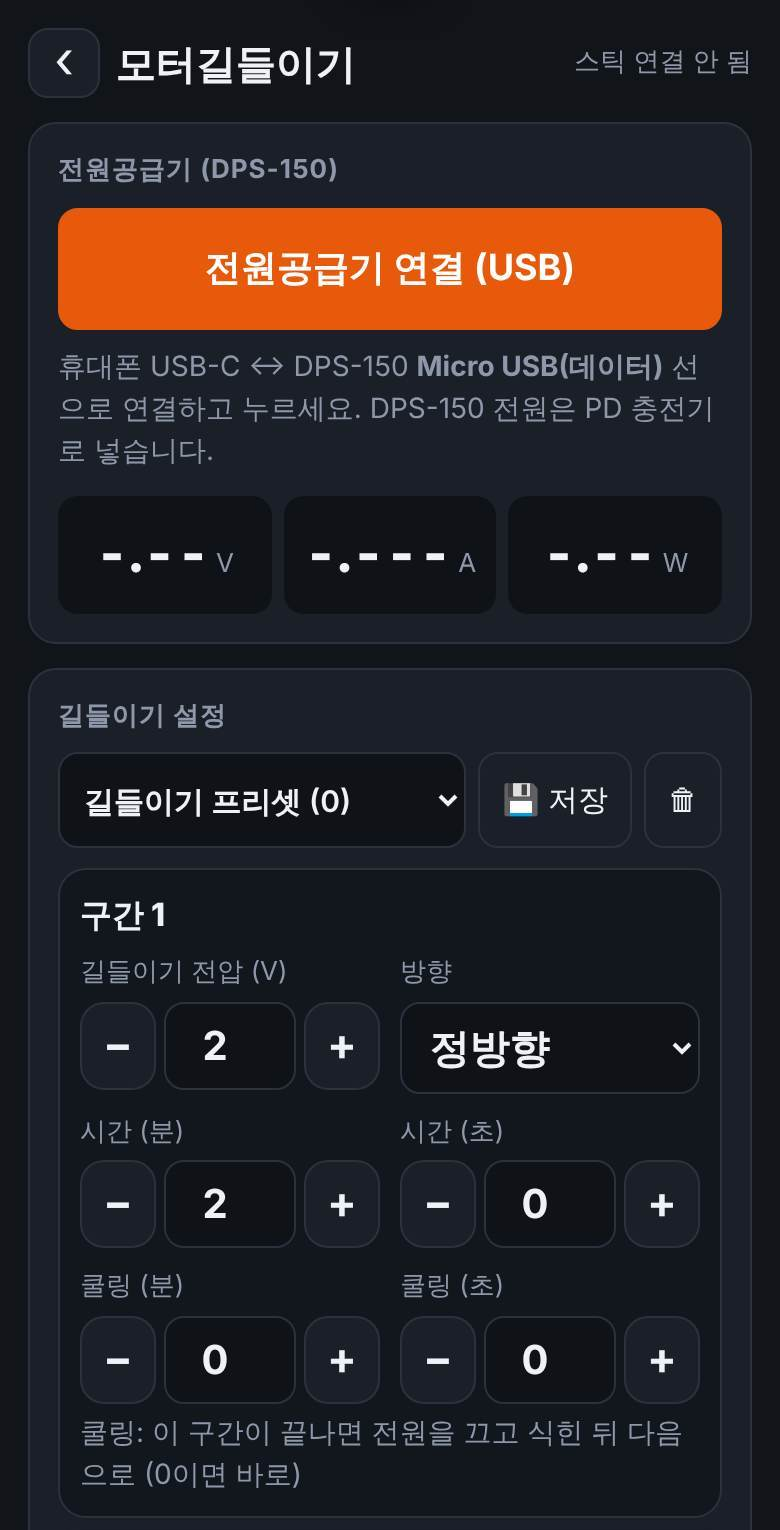
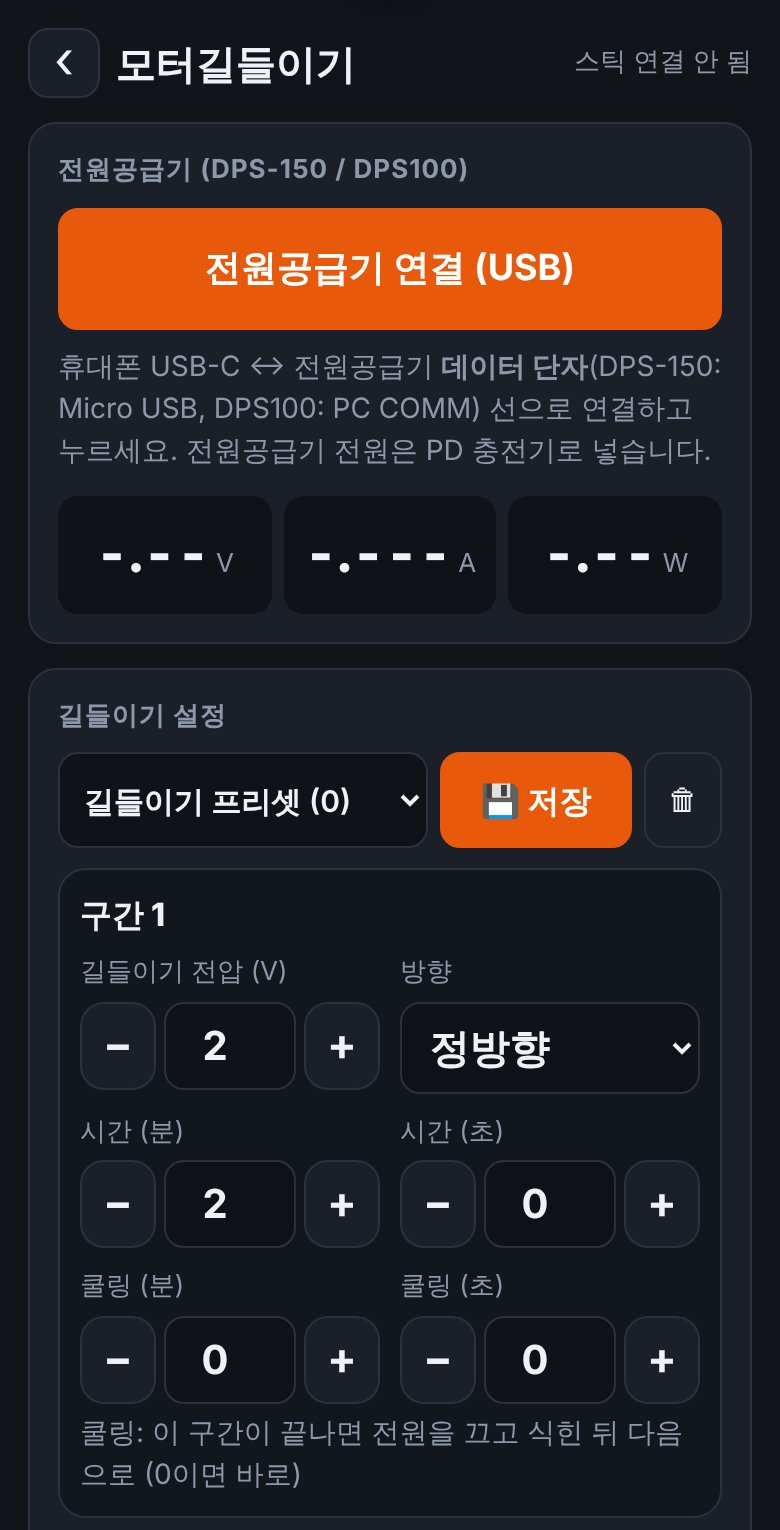
앱 화면·메뉴 정리: 클리닝·길들이기 카드 깨짐 수정, 홈 단순화, 연결 버튼 위로, 앱 설정 묶기 (앱 2026-11-26p)
Claude-Session: https://claude.ai/code/session_01WDN4fq3kSMUNUcbK6eJJbH

diff --git a/app.html b/app.html
@@ -130,8 +130,8 @@
   .prow select { flex:1; min-width:0; font:600 15px system-ui; padding:9px 8px; border-radius:10px; border:1px solid var(--line); background:#0f1217; color:var(--ink); }
   .prow button { padding:8px 11px; font-size:15px; white-space:nowrap; min-height:48px; }
   .prow select { min-height:48px; }
-  #psuPreSave, #cPreSave { min-width:108px; padding:10px 16px; font-size:18px; font-weight:800; background:var(--acc); border-color:var(--acc); color:#fff; }
-  #psuPreSave:active, #cPreSave:active { filter:brightness(1.15); }
+  #psuPreSave, #cPreSave, #bPreSave { min-width:96px; padding:10px 14px; font-size:16px; font-weight:800; background:var(--acc); border-color:var(--acc); color:#fff; }
+  #psuPreSave:active, #cPreSave:active, #bPreSave:active { filter:brightness(1.15); }
   .ppl { margin-top:8px; }
   .ppl .row { display:grid; grid-template-columns:1fr auto; gap:6px; align-items:center; padding:9px 2px; border-bottom:1px solid var(--line); }
   .ppl .nm { font-weight:700; font-size:16px; overflow:hidden; text-overflow:ellipsis; white-space:nowrap; }
@@ -140,7 +140,13 @@
   .ppl .acts button { padding:7px 9px; font-size:13px; }
   .pst { font-size:12px; font-weight:800; border-radius:6px; padding:1px 6px; margin-left:6px; }
   .pst.ok { background:#2b8a3e; color:#fff; } .pst.no { background:#c92a2a; color:#fff; } .pst.re { background:#1971c2; color:#fff; }
-  .tile.wide { grid-column:1 / -1; flex-direction:row; justify-content:center; padding:16px 10px; gap:12px; }
+  .tile.wide { grid-column:1 / -1; flex-direction:row; justify-content:flex-start; padding:16px 20px; gap:16px; }
+  .tiles3 { display:grid; grid-template-columns:repeat(3,1fr); gap:10px; margin-top:14px; }
+  .tiles3 .tile { padding:14px 4px 12px; gap:6px; border-radius:16px; }
+  .tiles3 .tile svg { width:36px; height:36px; }
+  .tiles3 .tile .tl { font-size:14px; text-align:center; line-height:1.25; }
+  .tiles3 .tile .ts { display:none; }
+  html.android .notAndroid { display:none !important; }
   .tile.wide svg { width:40px; height:40px; }
   #book { position:fixed; inset:0; z-index:58; background:var(--bg); overflow-y:auto; display:none; }
   #book.open { display:block; }
@@ -330,37 +336,39 @@
       </svg>
       <div style="text-align:left"><div class="tl">기록 · 비교</div><div class="ts" id="tileBookSub">모터별 점수 변화 · 순위 · 공유</div></div>
     </div>
-    <div class="tile wide" id="tileManual" role="button">
+  </div>
+  <div class="tiles3">
+    <div class="tile" id="tileManual" role="button">
       <svg viewBox="0 0 64 64" fill="none" stroke-linecap="round" stroke-linejoin="round">
         <path d="M8 14c8-3 16-3 24 3v36c-8-6-16-6-24-3z" stroke="#ffffff" stroke-width="4"/>
         <path d="M56 14c-8-3-16-3-24 3v36c8-6 16-6 24-3z" stroke="#e8590c" stroke-width="4"/>
       </svg>
-      <div style="text-align:left"><div class="tl">설명서</div><div class="ts">그림으로 보는 사용 방법</div></div>
+      <div class="tl">설명서</div>
     </div>
-    <div class="tile wide" id="tileFw" role="button">
+    <div class="tile" id="tileFw" role="button">
       <svg viewBox="0 0 64 64" fill="none" stroke-linecap="round" stroke-linejoin="round">
         <rect x="18" y="6" width="28" height="52" rx="6" stroke="#ffffff" stroke-width="4"/>
         <path d="M32 18v20M24 30l8 8 8-8" stroke="#1c7ed6" stroke-width="5"/>
         <path d="M26 48h12" stroke="#ffffff" stroke-width="4"/>
       </svg>
-      <div style="text-align:left"><div class="tl">최초 설치 · 업데이트</div><div class="ts" id="tileFwSub">스틱 펌웨어 설치와 새 버전 받기</div></div>
+      <div class="tl">설치 ·<br>업데이트</div><div class="ts" id="tileFwSub"></div>
     </div>
-    <div class="tile wide" id="tileReport" role="button">
+    <div class="tile" id="tileReport" role="button">
       <svg viewBox="0 0 64 64" fill="none" stroke-linecap="round" stroke-linejoin="round">
         <path d="M32 10C17 10 6 19 6 30c0 7 5 13 12 16l-3 10 11-7c2 0 4 1 6 1 15 0 26-9 26-20S47 10 32 10z" fill="#fee500" stroke="#fee500" stroke-width="3"/>
         <path d="M32 20v12M32 39v1" stroke="#3c1e1e" stroke-width="5"/>
       </svg>
-      <div style="text-align:left"><div class="tl">오류·문의 신고</div><div class="ts">카카오톡으로 제작자에게 바로 보내기</div></div>
+      <div class="tl">오류·문의<br>신고</div>
     </div>
   </div>
   <button id="btnInstall" style="display:none;width:100%;margin-top:18px;padding:14px;font-weight:700">📲 홈 화면에 앱 설치</button>
   <button id="btnShareInst" style="width:100%;margin-top:12px;padding:14px;font-weight:800;background:#fee500;color:#3c1e1e;border:0">📤 설치 페이지 공유하기</button>
   <p class="help" style="margin-top:22px">안드로이드 크롬에서 사용하세요. <span class="iosOnly">아이폰은 Bluefy 앱에서 스틱 측정만 됩니다.</span></p>
-  <div class="card" style="margin-top:10px;display:flex;align-items:center;gap:10px">
+  <div class="card notAndroid" style="margin-top:10px;display:flex;align-items:center;gap:10px">
     <div style="flex:1;font-size:14px;line-height:1.5">🍎 <b>아이폰</b>은 무료 앱 <b>Bluefy</b>를 받아 그 안에서 이 주소를 여세요. (스틱 측정만 가능)</div>
     <a href="https://apps.apple.com/kr/app/bluefy/id1492822055" target="_blank" rel="noopener" style="background:#e8590c;color:#fff;font-weight:800;padding:10px 12px;border-radius:10px;text-decoration:none;white-space:nowrap">아이폰용 받기</a>
   </div>
-  <a href="download.html" style="display:block;text-align:center;margin-top:10px;color:#74c0fc;font-weight:700;text-decoration:none">📥 다운로드 · 사용 설명서 (안드로이드 / 아이폰)</a>
+  <a href="download.html" style="display:block;text-align:center;margin-top:10px;color:#74c0fc;font-weight:700;text-decoration:none">📥 다른 휴대폰용 다운로드 안내</a>
 </div></div>
 <div id="admin"><div class="inner">
   <header>
@@ -441,7 +449,6 @@
         <label><span id="bRepLbl">최대 사이클</span><span class="nstep"><button class="stp" data-for="bRep" data-d="-1" aria-label="줄이기">−</button><input id="bRep" type="number" inputmode="numeric" min="1" max="999" step="1"><button class="stp" data-for="bRep" data-d="1" aria-label="늘리기">+</button></span></label>
         <label>전류 제한 (A)<span class="nstep"><button class="stp" data-for="bAmp" data-d="-1" aria-label="줄이기">−</button><input id="bAmp" type="number" inputmode="decimal" min="0.1" max="5" step="0.1"><button class="stp" data-for="bAmp" data-d="1" aria-label="늘리기">+</button></span></label>
       </div>
-    </div>
     </div>
     <div class="cgrid only-clean">
       <label>최소 전압 (V)<span class="nstep"><button class="stp" data-for="cMin" data-d="-1" aria-label="줄이기">−</button><input id="cMin" type="number" inputmode="decimal" min="0" max="12" step="0.1"><button class="stp" data-for="cMin" data-d="1" aria-label="늘리기">+</button></span></label>
@@ -591,14 +598,17 @@
 
   <div class="card">
     <div class="ttl">앱 설정</div>
+    <div class="set-row"><div class="ttl" style="margin:4px 0 0">알림</div></div>
     <div class="set-row"><label class="sw"><span><span class="set-name">연결 알림 진동</span><div class="set-def">기본값: 켜짐</div></span><input type="checkbox" id="aVib"></label></div>
     <div class="set-row"><label class="sw"><span><span class="set-name">연결 알림 소리</span><div class="set-def">기본값: 켜짐</div></span><input type="checkbox" id="aSnd"></label></div>
     <div class="set-row"><label class="sw"><span><span class="set-name">측정 결과 음성 안내</span><div class="set-def">기본값: 켜짐</div><div class="set-help">컨디션 측정이 끝나면 "92점, 좋음"처럼 소리 내어 읽어 줍니다.</div></span><input type="checkbox" id="aSay"></label></div>
     <div class="set-row"><label class="sw"><span><span class="set-name">측정 결과 진동</span><div class="set-def">기본값: 켜짐</div><div class="set-help">좋음 1번, 보통 2번, 점검 필요·다시 재기 3번 울립니다.</div></span><input type="checkbox" id="aRVib"></label></div>
     <div class="set-row"><label class="sw"><span><span class="set-name">이상 경고</span><div class="set-def">기본값: 켜짐</div><div class="set-help">돌리는 중 전류가 갑자기 뛰거나 파노가 크게 흔들리면 "베어링·브러시 점검"을 화면·소리로 알려 줍니다.</div></span><input type="checkbox" id="aWarn"></label></div>
+    <div class="set-row"><div class="ttl" style="margin:4px 0 0">연결 · 화면</div></div>
     <div class="set-row"><label class="sw"><span><span class="set-name">앱 열면 스틱 자동 연결</span><div class="set-def">기본값: 켜짐</div><div class="set-help">한 번 연결한 스틱이 켜져 있으면 앱을 열 때 바로 붙습니다 (브라우저가 지원할 때). 전원공급기는 늘 자동으로 다시 붙습니다.</div></span><input type="checkbox" id="aAuto"></label></div>
-    <div class="set-row"><label class="sw"><span><span class="set-name">앱에서 빨간 숫자 효과</span><div class="set-def">기본값: 켜짐</div></span><input type="checkbox" id="aHot"></label></div>
     <div class="set-row"><label class="sw"><span><span class="set-name">화면 꺼짐 방지</span><div class="set-def">기본값: 꺼짐</div><div class="set-help">측정하는 동안 휴대폰 화면이 꺼지지 않게 합니다.</div></span><input type="checkbox" id="aWake"></label></div>
+    <div class="set-row"><label class="sw"><span><span class="set-name">앱에서 빨간 숫자 효과</span><div class="set-def">기본값: 켜짐</div></span><input type="checkbox" id="aHot"></label></div>
+    <div class="set-row"><div class="ttl" style="margin:4px 0 0">장치</div></div>
     <div class="set-row"><label class="sw"><span><span class="set-name">릴레이 연결됨 (역방향)</span><div class="set-def">기본값: 꺼짐</div><div class="set-help">스틱 Grove 포트에 릴레이 보드를 달았을 때만 켜세요. 꺼져 있으면 역방향을 쓰지 않습니다.</div></span><input type="checkbox" id="aRelay"></label></div>
   </div>
 
@@ -619,6 +629,10 @@
     <div class="hdr-r"><span id="conn" class="conn" role="button">연결 안 됨</span></div>
   </header>
 
+  <div id="connectBox" class="card">
+    <button id="btnConnect" class="primary">스틱 연결 (블루투스)</button>
+    <p id="hint" class="help" style="margin:10px 0 0">스틱을 켜고, 휴대폰 블루투스와 위치를 켠 뒤 눌러주세요. 목록에서 <b>파노체크-(스틱 ID)</b>를 고르면 됩니다. 연결이 안 되면 스틱 전원을 껐다 켜고 다시 해 보세요.</p>
+  </div>
 
   <div id="lockBox" class="card" style="display:none;border-color:#e8590c">
     <b style="font-size:18px">🔒 활성화가 필요한 스틱입니다</b>
@@ -714,12 +728,6 @@
     <div id="recs" style="margin-top:2px"></div>
   </div>
 
-  <div id="connectBox" class="card">
-    <button id="btnConnect" class="primary">스틱 연결 (블루투스)</button>
-    <p id="hint" class="help" style="margin:10px 0 0">스틱을 켜고, 휴대폰 블루투스와 위치를 켠 뒤 눌러주세요. 목록에서 <b>파노체크-(스틱 ID)</b>를 고르면 됩니다.</p>
-  </div>
-
-  <p class="help">안드로이드 크롬에서 사용하세요<span class="iosOnly"> (아이폰은 Bluefy 앱)</span>. 연결이 안 되면 스틱 전원을 껐다 켜고 다시 연결해 보세요.</p>
 </main>
 
 <script>
@@ -830,6 +838,7 @@ async function saveFile(blob, name) {
   document.body.appendChild(a); a.click(); a.remove(); setTimeout(() => URL.revokeObjectURL(a.href), 2000);
 }
 if (IOS_UA) document.documentElement.classList.add('ios');
+if (/Android/i.test(navigator.userAgent)) document.documentElement.classList.add('android');
 if (IOS_UA) {                                       // iPhone zooms in on a text box under 16 px and stays zoomed
   const vp = document.querySelector('meta[name=viewport]'); if (vp) vp.content += ', maximum-scale=1';
 }
@@ -1620,7 +1629,7 @@ checkReqHash();
 // opening) it reads app.html's APP_BUILD from the server. A newer one is loaded right away when nothing is running:
 // within 15 s of opening / returning the stick and power supply links may be dropped (they reconnect by themselves);
 // later, only when no link is open. Never while cleaning, break-in, a condition check, a firmware update or DPS output ON.
-const APP_BUILD = '2026-11-26o';
+const APP_BUILD = '2026-11-26p';
 var lcFront = Date.now(), appNewer = '', appReloading = false;
 function appCanReload() {
   if (lcBusy() || (dps.link && dps.st && dps.st.on)) return false;

diff --git a/manual.html b/manual.html
@@ -73,7 +73,7 @@
     <h3>📱 안드로이드폰으로 설치</h3>
     <ol class="steps">
       <li>스틱을 USB-C 선으로 폰에 꽂습니다. (C-C 선, 또는 OTG 젠더)</li>
-      <li>폰 <b>크롬</b>에서 <a href="./" data-install style="color:var(--blue)">jung86.github.io/panotrio</a> 를 엽니다. 앱에서는 홈 <b>[최초 설치 · 업데이트]</b> → <b>[설치 페이지 열기]</b>.</li>
+      <li>폰 <b>크롬</b>에서 <a href="./" data-install style="color:var(--blue)">jung86.github.io/panotrio</a> 를 엽니다. 앱에서는 홈 <b>[설치 · 업데이트]</b> → <b>[설치 페이지 열기]</b>.</li>
       <li><b>설치 모드로 바꾸기</b>: 스틱 <b>옆면 전원 버튼을 약 2초</b> 누르고, 스틱 안의 <b>초록 불이 깜빡이면</b> 손을 뗍니다. (화면은 꺼져도 됩니다)</li>
       <li><b>[폰으로 설치]</b> → 목록에서 스틱(USB JTAG/serial) 선택 → <b>허용</b>.</li>
       <li>막대가 끝까지 차고 "✅ 설치 끝"이 나오면 선을 빼고 <b>전원 버튼을 한 번</b> 눌러 켭니다.</li>
@@ -179,8 +179,8 @@
       <li><b>파노측정</b>: 파노·전원공급기·컨디션 점수·기록을 한 화면에서.</li>
       <li><b>모터클리닝 / 모터길들이기</b>: 전원공급기로 자동 운전.</li>
       <li><b>설정</b>: 스틱 밝기·감도·대기 시간·시계 등.</li>
-      <li><b>최초 설치 · 업데이트</b>: 스틱 펌웨어를 블루투스로 업데이트하거나, USB로 처음 설치(안드로이드폰·PC).</li>
-      <li><b>설명서</b>: 지금 이 페이지.</li>
+      <li><b>기록 · 비교</b>: 모터별 점수 변화·순위·결과 카드 공유.</li>
+      <li>아래 작은 칸 세 개: <b>설명서</b>(지금 이 페이지) · <b>설치 · 업데이트</b>(스틱 펌웨어를 블루투스로 업데이트하거나 USB로 처음 설치) · <b>오류·문의 신고</b>(카카오톡으로 제작자에게).</li>
     </ul>
     <p class="mute">새 펌웨어가 있으면 연결 버튼 아래에 파란 알림 상자가 나옵니다 (→ <a href="#s-up" style="color:var(--blue)">업데이트</a>).</p>
   </section>
@@ -391,11 +391,11 @@
     <h3>스틱 펌웨어 (블루투스)</h3>
     <ul>
       <li>새 버전이 있으면 스틱을 연결할 때 알림이 뜹니다 → <b>[지금 업데이트]</b>.</li>
-      <li>언제든 홈 <b>[최초 설치 · 업데이트]</b>에서 최신인지 확인하고 업데이트할 수 있습니다.</li>
+      <li>언제든 홈 <b>[설치 · 업데이트]</b>에서 최신인지 확인하고 업데이트할 수 있습니다.</li>
       <li>2~5분 걸립니다. 배터리 25% 이상(USB에 꽂혀 있으면 상관없음). 끊겨도 90초 안에 다시 연결하면 이어받고, 실패해도 스틱은 원래 버전으로 켜집니다.</li>
       <li>블루투스 업데이트가 안 되는 스틱(2.0 전 버전)은 <a href="#s-install" style="color:var(--blue)">1. 최초 설치</a>처럼 USB로 한 번 설치합니다.</li>
     </ul>
-    <img class="shot half" src="manual/fw-menu.jpg" alt="최초 설치 · 업데이트 창" loading="lazy">
+    <img class="shot half" src="manual/fw-menu.jpg" alt="설치 · 업데이트 창" loading="lazy">
     <h3>앱</h3>
     <p>앱을 열거나 다른 앱에서 돌아올 때 새 버전을 확인해서 <b>바로 바뀝니다</b> (닫았다 다시 열 필요 없음). 측정·클리닝·길들이기 중이거나 전원공급기 출력이 켜져 있으면 끝난 뒤 앱으로 돌아올 때 바뀝니다. 버전은 설정 맨 아래에 있습니다.</p>
     <h3>앱을 끄거나 다른 앱으로 갈 때</h3>

diff --git a/CLAUDE.md b/CLAUDE.md
@@ -24,7 +24,7 @@
 
 ## 3. 현재 버전 (2026-11-25 기준)
 
-- 앱: **2026-11-26o** (26o: 사용자 요청 "설정 최초 초기값은 무조건 기본설정": 처음 만나는 스틱(INFO ID, localStorage `panocheck-setinit` 목록, 최대 20개)이면 스틱 값을 불러오지 않고 mySet=DEFAULTS로 두고 saveToStick(true)로 스틱에도 저장(그 세션에 앱에서 바꾼 값은 유지). 이 변경 전부터 쓰던 폰(myset 있고 목록 없음)은 지금 스틱을 목록에 넣기만 해서 설정 안 바뀜. 두 번째 연결부터는 예전처럼 스틱 값을 불러옴. 펌웨어는 안 바꿈(펌웨어 기본값이 DEFAULTS와 같은지 PC 소스로 확인 못 함). 26n: 끄고 켤 때 정리: pagehide면 DPS 출력 OFF 프레임을 큐 없이 바로 보내고 세션 끝·포트 닫기, 스틱 gatt.disconnect, 화면 켜짐 잠금·음성·소리 정지. 다른 앱으로 잠깐 가면(visibilitychange) 아무것도 안 멈춤, 3분 넘게 숨겨져 있고 lcBusy()(클리닝·길들이기·컨디션·ckOne·펌웨어 업데이트) 아니고 출력 OFF면 lcPark()로 연결만 쉬고 돌아오면 기존 자동 재연결. 새 버전: sw.js는 안 바뀌어 controllerchange가 안 오므로, 열 때·돌아올 때·30분마다 app.html을 no-store로 받아 APP_BUILD 비교(크면 새 버전), 바쁘지 않고 출력 OFF면 열고/돌아온 뒤 15초 안엔 연결이 있어도 reload(자동 재연결), 그 뒤엔 연결 없을 때만, 아이폰은 스틱 연결 중엔 안 함, sessionStorage pc-reloadFor로 버전당 한 번. 26m: 홈에 📊 기록 · 비교 타일(#book): 모터 순위(최근 점수 순, 전압 칩 0.5 V 단위로 거름), 모터별 점수 그래프(청소 전 주황/후 초록/일반 회색)·청소 효과·이름 바꾸기(renameMotor: recs와 condchk 둘 다), 📤 결과 카드 공유(1080×1080 PNG, navigator.share 파일, 안 되면 저장; 컨디션 결과 아래에도). ⚠ 이상 경고(warnCheck, 설정 aWarn 기본 켬): 같은 전압·방향에서 최근 1.5초 전류 중앙값이 그 전 10초보다 25%↑·0.08 A↑ 또는 파노 cv>3% 3초 지속 → 컨디션 카드 빨간 줄+토스트+음성, 종류별 30초에 한 번. 길들이기 자동(구간·정역·프리셋)은 이미 있어 그대로. 26l: 홈 맨 아래와 설치 페이지 맨 아래에 📤 설치 페이지 공유하기(navigator.share, 안 되면 주소 복사). 26k: 홈에 🔌 최초 설치 · 업데이트 타일: 창에서 블루투스 업데이트(연결·최신 여부 표시)와 USB 최초 설치(안드로이드는 폰으로 설치, 아이폰 불가 안내) → index.html. 26j: 조작 편하게: 컨디션 카드에 큰 버튼 [🧽 청소 전] [✨ 청소 후] [▶ 그냥 측정], 누르면 빠진 연결(스틱→DPS, 목록은 한 번에 하나라 필요하면 두 번 누름) → 출력 켜기 → 3초 뒤 자동 측정 → 점수 → 출력 끄기(직접 켠 출력이면 안 끔), 측정 중엔 그 버튼이 ■ 멈추기, 20초 파노 없으면 출력 끔. 결과 음성(speechSynthesis ko-KR "92점, 좋음")·진동(좋음1/보통2/점검3번), 설정 aSay/aRVib. 앱 열면 스틱 자동 연결(getDevices+watchAdvertisements, localStorage `panocheck-stick`, 설정 aAuto). 스틱 버튼 이벤트 수신 준비: INFO `BTN=seq.kind`(1=A 1초 길게: 시작/멈춤, 2=B 1초 길게: 정역), 펌웨어 2.7에서 넣을 예정. 26i: 홈에 💬 오류·문의 신고 타일: 앱·펌웨어·스틱 ID·기기 정보를 복사한 뒤 제작자 카톡 프로필(qr.kakao.com/talk/KAoG3jvpyh58RB7NFy4KUi7kl2I-, 사용자 QR에서 읽음)을 엶. 26h: 사용자 요청으로 ▶ 측정 시작 버튼과 자동 측정 체크박스 삭제, 컨디션 측정은 항상 자동(출력 ON 3초 뒤 한 번, 전압·방향 바꾸면 다시), 다시 재려면 출력 껐다 켜기, 설명서도 수정. 26g: 전압 바꿔 자동 측정 취소될 때 "측정 중" 문구가 0.5초 남던 것 수정. 26f 실기 시험 통과(2026-11-26, PC 헤드리스 크롬+실제 DPS-150 COM5+스틱 COM8 파노): 출력 ON 3.8~5.1초 뒤 자동 시작, 2.0 V 96점·2.5 V 100점, 보고서 PC `Documents\motorcleaner\test-2026-11-26f\`. 26f: 컨디션 측정 자동 시작: 전원공급기 출력이 켜지고 3초 뒤 파노가 들어오면 한 번 자동 측정, 측정 중 전압·방향을 바꾸면 새로 시작, 체크박스 "모터가 돌기 시작하면 자동으로 측정"(localStorage `panocheck-ckauto`, 기본 켬)으로 끌 수 있음, ▶ 측정 시작 버튼은 남겨 둠(멈추기·수동 재측정용). 26e: DPS100 미리 지원(실물 미확인, DPS-150과 같은 통신 방식 가정): 첫 연결 목록에 Artery·ST·GD·WCH·CP210x 칩 표시, 고른 장치 VID/PID를 localStorage `dpsDev`에 저장해 자동 재연결, 모델 이름에 DPS100이면 전류 5.0 A·OCP 5.05 A 상한, 화면·설명서 "DPS-150 / DPS100". 26d: 릴레이 설명서. 26c: 아이폰 점검: 아이폰에선 확인·입력 창을 앱 자체 창으로(Bluefy가 confirm/prompt를 못 띄울 수 있음), CSV는 공유 시트→안 되면 복사 창, 입력칸 확대 막기, 노치·홈바 여백, 전원공급기 카드에 "아이폰은 DPS 연결 불가" 안내, BLE 업데이트에서 응답 놓치면 아이폰은 응답 있는 쓰기로 전환. WebKit 엔진 시험은 못 함(다운로드 차단), 크롬+아이폰 화면·가짜 블루투스로 시험. 26b: 홈 📖 설명서 타일 → manual.html: 실제 앱 캡처(manual/*.jpg)와 그림으로 된 설명서, ★작동 기준 포함, 앱 안 텍스트 설명서는 뺌. 캡처는 playwright로 가짜 값 넣어 다시 찍음. 26a: 전류 제한 기본값 1.0→3.0 A: 전원공급기·클리닝·길들이기. 25z: 설정 최소값 정리: 대기 시간 눈금 0초/1.0초를 펌웨어에 맞게 표시, 2.6 미만 스틱이면 저장값을 1.0초로 맞춤, 길들이기 전압 최소 0.3 V) (설정 맨 아래에 표시)
+- 앱: **2026-11-26p** (26p: 화면·메뉴 정리: 클리닝·길들이기 설정 카드의 남는 </div> 때문에 입력칸이 카드 밖으로 빠지던 것 수정, 홈 설명서·설치 · 업데이트·오류·문의 신고를 작은 칸 3개로 묶음(기록 · 비교 넓은 칸은 왼쪽 정렬), 아이폰 안내 카드는 안드로이드에선 숨김(html.android), 파노측정 스틱 연결 카드를 맨 위로, 앱 설정을 알림 / 연결 · 화면 / 장치로 묶음, 프리셋 💾 저장 버튼 셋 같은 모양. 동작 변경 없음. 26o: 사용자 요청 "설정 최초 초기값은 무조건 기본설정": 처음 만나는 스틱(INFO ID, localStorage `panocheck-setinit` 목록, 최대 20개)이면 스틱 값을 불러오지 않고 mySet=DEFAULTS로 두고 saveToStick(true)로 스틱에도 저장(그 세션에 앱에서 바꾼 값은 유지). 이 변경 전부터 쓰던 폰(myset 있고 목록 없음)은 지금 스틱을 목록에 넣기만 해서 설정 안 바뀜. 두 번째 연결부터는 예전처럼 스틱 값을 불러옴. 펌웨어는 안 바꿈(펌웨어 기본값이 DEFAULTS와 같은지 PC 소스로 확인 못 함). 26n: 끄고 켤 때 정리: pagehide면 DPS 출력 OFF 프레임을 큐 없이 바로 보내고 세션 끝·포트 닫기, 스틱 gatt.disconnect, 화면 켜짐 잠금·음성·소리 정지. 다른 앱으로 잠깐 가면(visibilitychange) 아무것도 안 멈춤, 3분 넘게 숨겨져 있고 lcBusy()(클리닝·길들이기·컨디션·ckOne·펌웨어 업데이트) 아니고 출력 OFF면 lcPark()로 연결만 쉬고 돌아오면 기존 자동 재연결. 새 버전: sw.js는 안 바뀌어 controllerchange가 안 오므로, 열 때·돌아올 때·30분마다 app.html을 no-store로 받아 APP_BUILD 비교(크면 새 버전), 바쁘지 않고 출력 OFF면 열고/돌아온 뒤 15초 안엔 연결이 있어도 reload(자동 재연결), 그 뒤엔 연결 없을 때만, 아이폰은 스틱 연결 중엔 안 함, sessionStorage pc-reloadFor로 버전당 한 번. 26m: 홈에 📊 기록 · 비교 타일(#book): 모터 순위(최근 점수 순, 전압 칩 0.5 V 단위로 거름), 모터별 점수 그래프(청소 전 주황/후 초록/일반 회색)·청소 효과·이름 바꾸기(renameMotor: recs와 condchk 둘 다), 📤 결과 카드 공유(1080×1080 PNG, navigator.share 파일, 안 되면 저장; 컨디션 결과 아래에도). ⚠ 이상 경고(warnCheck, 설정 aWarn 기본 켬): 같은 전압·방향에서 최근 1.5초 전류 중앙값이 그 전 10초보다 25%↑·0.08 A↑ 또는 파노 cv>3% 3초 지속 → 컨디션 카드 빨간 줄+토스트+음성, 종류별 30초에 한 번. 길들이기 자동(구간·정역·프리셋)은 이미 있어 그대로. 26l: 홈 맨 아래와 설치 페이지 맨 아래에 📤 설치 페이지 공유하기(navigator.share, 안 되면 주소 복사). 26k: 홈에 🔌 최초 설치 · 업데이트 타일: 창에서 블루투스 업데이트(연결·최신 여부 표시)와 USB 최초 설치(안드로이드는 폰으로 설치, 아이폰 불가 안내) → index.html. 26j: 조작 편하게: 컨디션 카드에 큰 버튼 [🧽 청소 전] [✨ 청소 후] [▶ 그냥 측정], 누르면 빠진 연결(스틱→DPS, 목록은 한 번에 하나라 필요하면 두 번 누름) → 출력 켜기 → 3초 뒤 자동 측정 → 점수 → 출력 끄기(직접 켠 출력이면 안 끔), 측정 중엔 그 버튼이 ■ 멈추기, 20초 파노 없으면 출력 끔. 결과 음성(speechSynthesis ko-KR "92점, 좋음")·진동(좋음1/보통2/점검3번), 설정 aSay/aRVib. 앱 열면 스틱 자동 연결(getDevices+watchAdvertisements, localStorage `panocheck-stick`, 설정 aAuto). 스틱 버튼 이벤트 수신 준비: INFO `BTN=seq.kind`(1=A 1초 길게: 시작/멈춤, 2=B 1초 길게: 정역), 펌웨어 2.7에서 넣을 예정. 26i: 홈에 💬 오류·문의 신고 타일: 앱·펌웨어·스틱 ID·기기 정보를 복사한 뒤 제작자 카톡 프로필(qr.kakao.com/talk/KAoG3jvpyh58RB7NFy4KUi7kl2I-, 사용자 QR에서 읽음)을 엶. 26h: 사용자 요청으로 ▶ 측정 시작 버튼과 자동 측정 체크박스 삭제, 컨디션 측정은 항상 자동(출력 ON 3초 뒤 한 번, 전압·방향 바꾸면 다시), 다시 재려면 출력 껐다 켜기, 설명서도 수정. 26g: 전압 바꿔 자동 측정 취소될 때 "측정 중" 문구가 0.5초 남던 것 수정. 26f 실기 시험 통과(2026-11-26, PC 헤드리스 크롬+실제 DPS-150 COM5+스틱 COM8 파노): 출력 ON 3.8~5.1초 뒤 자동 시작, 2.0 V 96점·2.5 V 100점, 보고서 PC `Documents\motorcleaner\test-2026-11-26f\`. 26f: 컨디션 측정 자동 시작: 전원공급기 출력이 켜지고 3초 뒤 파노가 들어오면 한 번 자동 측정, 측정 중 전압·방향을 바꾸면 새로 시작, 체크박스 "모터가 돌기 시작하면 자동으로 측정"(localStorage `panocheck-ckauto`, 기본 켬)으로 끌 수 있음, ▶ 측정 시작 버튼은 남겨 둠(멈추기·수동 재측정용). 26e: DPS100 미리 지원(실물 미확인, DPS-150과 같은 통신 방식 가정): 첫 연결 목록에 Artery·ST·GD·WCH·CP210x 칩 표시, 고른 장치 VID/PID를 localStorage `dpsDev`에 저장해 자동 재연결, 모델 이름에 DPS100이면 전류 5.0 A·OCP 5.05 A 상한, 화면·설명서 "DPS-150 / DPS100". 26d: 릴레이 설명서. 26c: 아이폰 점검: 아이폰에선 확인·입력 창을 앱 자체 창으로(Bluefy가 confirm/prompt를 못 띄울 수 있음), CSV는 공유 시트→안 되면 복사 창, 입력칸 확대 막기, 노치·홈바 여백, 전원공급기 카드에 "아이폰은 DPS 연결 불가" 안내, BLE 업데이트에서 응답 놓치면 아이폰은 응답 있는 쓰기로 전환. WebKit 엔진 시험은 못 함(다운로드 차단), 크롬+아이폰 화면·가짜 블루투스로 시험. 26b: 홈 📖 설명서 타일 → manual.html: 실제 앱 캡처(manual/*.jpg)와 그림으로 된 설명서, ★작동 기준 포함, 앱 안 텍스트 설명서는 뺌. 캡처는 playwright로 가짜 값 넣어 다시 찍음. 26a: 전류 제한 기본값 1.0→3.0 A: 전원공급기·클리닝·길들이기. 25z: 설정 최소값 정리: 대기 시간 눈금 0초/1.0초를 펌웨어에 맞게 표시, 2.6 미만 스틱이면 저장값을 1.0초로 맞춤, 길들이기 전압 최소 0.3 V) (설정 맨 아래에 표시)
 - 스틱 펌웨어: **2.6** (2026-11-25: 측정 끝나 HOLD되면 큰 숫자 자리에 점수(PT, 등급 색)와 파노 Hz를 2.5초씩 번갈아 표시, 측정 끝나기 전 10초 안에 받은 점수만 사용, G 결과 우선, HOLD 처음 1초는 파노, 대기 시간(설정 3) 0초 허용, 시리얼 SCORE 등급 점수 명령. install 조각은 2.5와 같은 코어라 2.5 것을 복사, 병합 bin은 2.5 병합본 앞 0x10000 + 2.6 앱).
 - 이전 펌웨어 2.5 (AUTO 범위 아래 끝 200 Hz, 2·3배 고조파 보정, 엉뚱한 선 고정 시 재탐색, 시리얼 파노 0 표시 수정, 시리얼 MODE/RANGE 명령). 2.3·2.4·2.5 파일은 아직 저장소에 남아 있음(삭제는 사용자 확인 후).
 - 사용자의 실제 스틱(파노체크-1DD625E0): **2.6** (2026-11-25 PC에서 USB로 설치, activated=1). 2.6 실측: DPS 2.0 V, 점수 87/64/77과 파노 330~334 Hz 번갈아 표시, 대기 0초 시험 통과(바로 측정, 첫 값 약 3초) 후 2.5초로 복구. G 우선 표시는 블루투스 잠금 때문에 시리얼로 못 함(앱으로 확인 필요).
